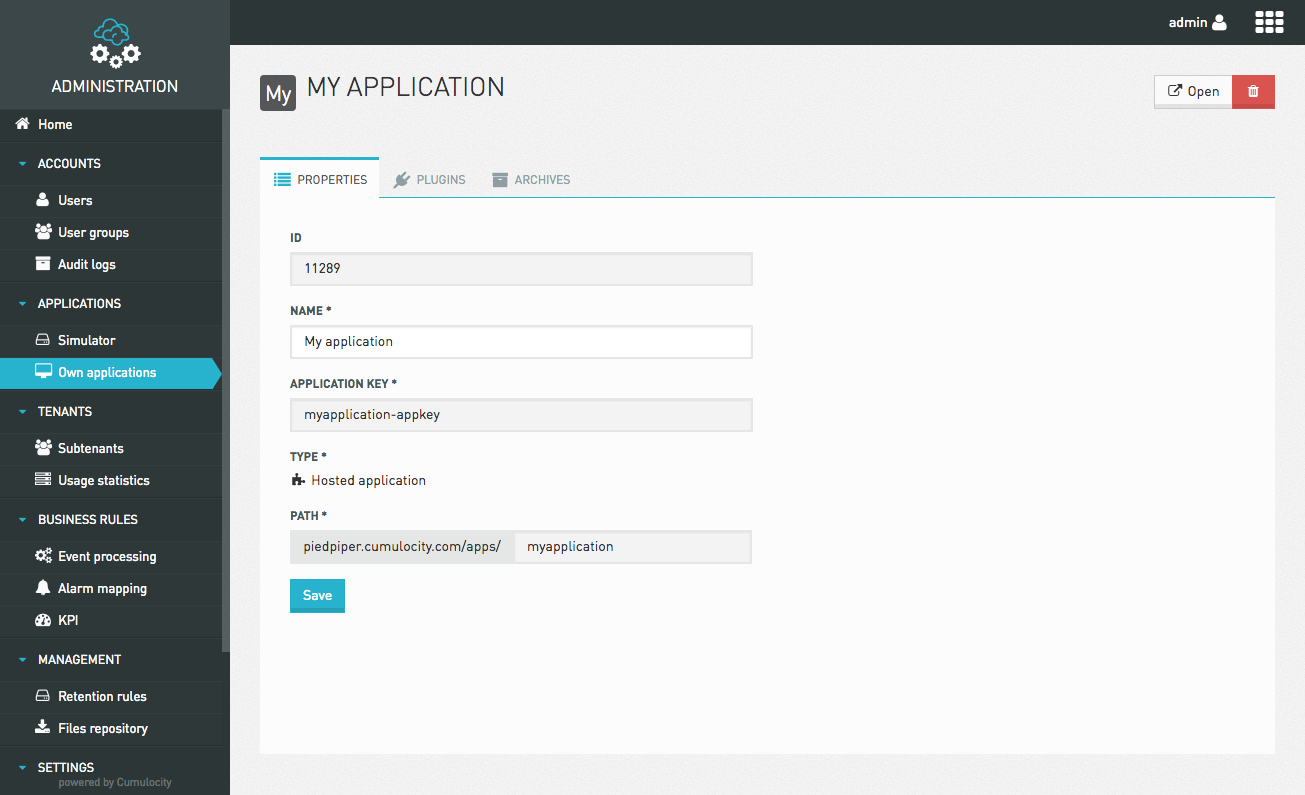
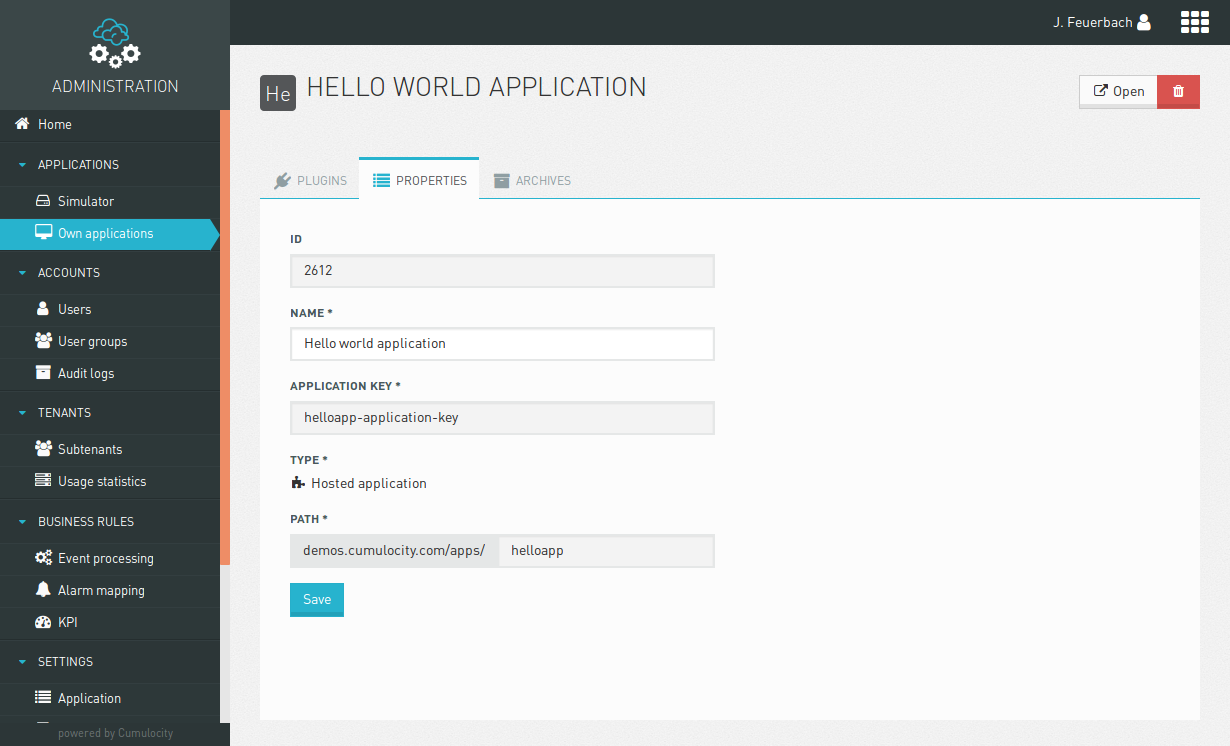
continued working on web sdk doc

diff --git a/src/documents/guides/web/introduction.html.md b/src/documents/guides/web/introduction.html.md
@@ -84,14 +84,14 @@ In case that you only want to create a plugin and add it to an already existing 
 
 The application manifest describes where your application is stored and how it is exposed to Cumulocity. The following properties are available:
 
-* **name**: A descriptive name for the application.
+* **name**: A descriptive name for the application. It will appear in the app switcher menu.
 * **availability**: "PRIVATE", if the application is only available in your tenant, "MARKET", if it is a public application.
 * **contextPath**: The path to be used for hosted applications. The URL of the application will be "&lt;&lt;yourURL&gt;&gt;/apps/&lt;&lt;contextPath&gt;&gt;".
 * **key**: The application key that is used for associating requests of an application with the application and for subscribing to applications.
 * **resourcesUrl**: If the app is serving an upload zip file (is the case for Smartapps) this value will be '/'. If it's a full url all the request will proxied to that address.
 * **type**: *HOSTED*, if the application is hosted through Cumulocity, *EXTERNAL*, if the application is hosted elsewhere.
 * **imports**: A list of plugins used by the application. List of *&lt;&lt;applicationName&gt;&gt;/&lt;&lt;pluginName&gt;&gt;*.
-* **noAppSwitcher**: If set to true, application will not appear in the App Switcher menu. Optional, use, for example, if the application only exposes plugins.
+* **noAppSwitcher**: If set to true, the application will not appear in the App Switcher menu. Optional, use, for example, if the application only exposes plugins.
 * **options**:
 	* **tabsHorizontal**: A boolean, which if set true
 	* **hide_navigator**: A boolean, which if set true collapses the navigator menu on the left by default, optional.
@@ -159,6 +159,7 @@ As already described above, applications are always a collection of plugins. We 
 ```bash
 $ npm init
 ```
+> Note that this command prompts you to enter values for several properties which will be included in the package.json file. The package.json file should include at least a name and version. To skip a property, press enter.
 
 Then proceed to install the Cumulocity UI package containing the set of plugins by typing in the following command:
 
@@ -175,9 +176,7 @@ This command will:
 
 ## Sample plugins
 
-After setting up everything and getting an insight into the folder structure and manifests, you can finally start building your first application and plugin. The following chapter will guide you through the process of building a "Hello World!" style plugin. You can find the "Hello World!" and all other examples described in this section in the repository [https://bitbucket.org/m2m/cumulocity-ui-plugin-examples](https://bitbucket.org/m2m/cumulocity-ui-plugin-examples). However, we recommend to build the "Hello World!" example from scratch to gain a better understanding of how applications and plugins work.
-
-CLONE OR ZIP?
+After setting up everything and getting an insight into the folder structure and manifests, you can finally start building your first application and plugin. The following chapter will guide you through the process of building a "Hello World!" style plugin. You can find the "Hello World!" plugin in the repository [https://github.com/dwiyatci/cumulocity-hello-plugin-modular](https://github.com/dwiyatci/cumulocity-hello-plugin-modular). You are free to download or clone the repository, but we recommend to build the "Hello World!" example from scratch and to use the repository as a reference to gain a better understanding of how applications and plugins work.
 
 ## <a name="hello-world"></a>"Hello world!"
 
@@ -207,45 +206,40 @@ First, we need to create the application project by
 * Running the command "npm init" to create a new package.json file.
 * Running the command "c8y install latest" to get the latest core plugins.
 
+After these steps you should have the following folder structure:
 
-===================================================
-===================================================
-===================================================
-
-### Set up an application project
-
-* [Download](https://bitbucket.org/m2m/cumulocity-ui-plugin/get/tip.zip) the plugin boilerplate from Bitbucket. *(Alternatively, clone the repository if you use Mercurial. As the package.json is already created here, you don't need to npm init)*
-* In a terminal window, go to the project's root folder and install the Cumulocity UI plugins
-
-```bash
-$ c8y install latest
+```console
+<<root folder>>
+├── node_modules
+├── cumulocity.js
+└── package.json
 ```
+
 ### Configure the application manifest
 
-The application manifest contains information about the Cumulocity application that holds your plugins, such as its name, key, URL and dependencies. It needs to be placed in a file named cumulocity.json in the project's root folder. Inspect the "boilerplate" application manifest:
+Second, we have to fill out the application manifest (the cumulocity.json file inside our root folder) with information about our Cumulocity application, such as its name, key, URL and dependencies. For this example, we have to specify the following properties:
 
 ```json
 	{
-		"name": "My application",
-		"availability": "PRIVATE",
-		"contextPath": "myapplication",
-		"key": "myapplication-appkey",
-		"resourcesUrl": "/",
+		"contextPath": "helloapp",
+	  "key": "helloapp-application-key",
+	  "name": "Hello world application",
+	  "availability": "PRIVATE",
+	  "resourcesUrl": "/",
 		"type": "HOSTED",
 		"imports": [
-			"core/c8yBranding",
-			"myapplication/myplugin"
+			"core/c8yBranding"
 		]
 	}
 ```
-You have more detailed information about manifests in the [Plugins Reference](/guides/web/reference)
+
+With the project structure so far, we can already test our application. We already added the "c8yBranding" plugin from the Cumulocity UI package to our imports so that our application is not completely empty when we try to access it. As the name already indicates, it adds the branding of Cumulocity to our application. Before we can test an application locally, we have to create it on our tenant first.
+
+For more details about the other properties of the manifest, revisit "[Manifests](#manifests)".
 
 ### Create the application on your tenant
 
-After a successful login in a Cumulocity UI application the application key is fetched automatically.
-As so, to develop an application we need to make sure that the application is created in our tenant.
-To create the application in our tenant we simply deploy it using using ```c8y deploy:app [appContextPath]```.
-If you omit appContextPath the contextPath will be read from the cumulocity.json at the path where the command was executed.
+After a successful login in a Cumulocity UI application the application key is fetched automatically. As so, to develop an application we need to make sure that the application is created in our tenant. To create the application in our tenant we simply deploy it using using ```c8y deploy:app [appContextPath]```. If you omit appContextPath the contextPath will be read from the cumulocity.json at the path where the command was executed.
 
 ```bash
 $ c8y deploy:app
@@ -258,16 +252,15 @@ POST application/applications/31337/binaries/ 201
 PUT /application/applications/31337 200
 ```
 
-You will be asked for your tenant name, username, password and base url for you tenant. These prompts for data can be preventing by defining the environment variables: ```C8Y_TENANT```, ```C8Y_USER```, ```C8Y_PASS``` and ```C8Y_BASE_URL```;
+You will be asked for your tenant name, username, password and base url for you tenant. To prevent filling out these prompts over and over again, you can define the following environment variables on your computer: ```C8Y_TENANT```, ```C8Y_USER```, ```C8Y_PASS``` and ```C8Y_BASE_URL```.
 
-After deploying your application, it appears in the *"Own applications"* menu of the Cumulocity administration application.
+After deploying your application, it appears in the *"Own applications"* menu of the Cumulocity "Administration" application.
 
 ![My Application](/guides/plugins/applicationeditor.png)
 
 ### Test your application
 
-To run your application locally just run ```c8y server```
-You can pass an options ```-u https://piedpiper.cumulocity.com``` with the instance where you want your api calls to be proxied to.
+To run your application locally, just run ```c8y server```. You can pass an option ```-u https://piedpiper.cumulocity.com``` with the instance as parameter where you want your api calls to be proxied to.
 
 ```console
 $ c8y server
@@ -275,97 +268,149 @@ Cumulocity UI development server running in port 9000.
 Proxying api requests to https://bazinga.staging.c8y.io
 140 modules loaded.
 5 application manifest loaded.
-http://localhost:9000/apps/myapplication/ cumulocity.json
+http://localhost:9000/apps/helloapp/ cumulocity.json
 http://localhost:9000/apps/fieldbus4/  Packaged App
 http://localhost:9000/apps/administration/  Packaged App
 http://localhost:9000/apps/cockpit/  Packaged App
 http://localhost:9000/apps/devicemanagement/  Packaged App
 ```
 
-Now, you can test your application by opening your browser at the URL "http://localhost:9000/apps/myapplication/".
+Now, you can test your application by opening your browser at the URL "http://localhost:9000/apps/helloapp/". If you access your application now, you should be able to see the following:
+
+![My Application](/guides/plugins/emptyapplication.png)
+
+What is missing now is a plugin which adds a menu item to the navigator.
 
 ### Configure the plugin manifest
 
-Each plugin comes in a separate subfolder of the plugins folder of your application. The example contains a subfolder myplugin. Inside myplugin, you will another cumulocity.json file, the plugin manifest. The plugin manifest provides information about a plugin, such as the name, short description, files to be loaded, and angular modules to be added to the main app.
-Inspect myplugins/cumulocity.json manifest:
+Each plugin comes in a separate subfolder inside the plugins folder of your application. So to add a plugin to our application, we have to
+* Create a "plugins" folder in our project
+* Create a folder named "hello" inside the "plugins" folder.
+* Create a cumulocity.json file inside the "hello" folder, representing our application manifest.
+* Create a "views" folder inside the "hello" folder.
+* Create a "hello.html" file inside the "views" folder, representing the view of our plugin.
+
+After these steps you should have the following folder structure:
+
+```console
+<<root folder>>
+├── node_modules
+├── plugins
+|		└── hello
+|				├──views
+|				|	 └── hello.html
+|				└── cumulocity.json
+├── cumulocity.js
+└── package.json
+```
+
+The plugin manifest provides information about our plugin, such as the name, a short description, files to be loaded, and angular modules to be added to the main app. For our example, add the following lines to the cumulocity.json file:
 
 ```json
 {
 	"name": "Hello world plugin testing",
-	"description": "Simple hello world plugin.",
-	"ngModules": [
-		"myapp.helloworld"
-	],
-	"js": [
-		"index.js"
-	]
+	"description": "Simple hello world plugin."
 }
 ```
 
-You have more detailed information about manifests in the [Plugins Reference](/guides/web/reference)
+For more details about the other properties of the manifest, revisit "[Manifests](#manifests)".
 
+Now that we have added a plugin to our application, we also have to add it to the imports of our application manifest. The name of the import consists of two parts seperated by a slash. The first part has to be the context path of the application the plugin is located in and the second part has to be the name of the plugin folder. In our case, our plugin is located in our application with the context path "myapplication" as specified in the application manifest and our plugin folder is named "myplugin" which results in:
+
+```json
+	{
+		...
+		"imports": [
+			"core/c8yBranding",
+			"helloapp/hello"
+		]
+	}
+```
+
+After we added the plugin folder to our application, we can start implementing the functionality.
 
 ### Implement the plugin's initialization function
 
-Previsouly, while defining the plugin manifest, we mentioned that JavaScript code from the file index.js in the plugin folder should be loaded.
-Inspect index.js:
+Even though the scope of this example is very small, we recommend to use a modular approach. For this reason, create a file for the module "hello.module.js", for the config "hello.config.js" and for the controller "hello.controller.js" inside your "hello" folder.
+
+Inside the "hello.module.js" file, we initialize the module for our plugin:
 
 ```js
-//Main module name must be defined in ngModules of the plugin manifest
-//so that they can be loaded at application bootstrap
-angular.module('myapp.helloworld', [])
-	.config(config)
-	.controller('MyMainController', MainController);
+(function () {
+  'use strict';
 
-function config(c8yNavigatorProvider, c8yViewsProvider) {
-	c8yNavigatorProvider.addNavigation({
-		name: 'New plugin',
-		icon: 'cube',
-		priority: 100000,
-		path: 'hello'
-	});
-
-	c8yViewsProvider.when('/hello', {
-		// Please use this string placeholder where you want to refer you plugin path.
-		templateUrl: ':::PLUGIN_PATH:::/index.html',
-		controller: 'MyMainController'
-	});
-
-	c8yViewsProvider.when('/', {
-		redirectTo: '/hello'
-	});
-}
-
-function MainController($scope) {
-	$scope.hello = 'Hello world!';
-}
+  angular.module('helloapp.hello', []);
+}());
 ```
 
-With this code, we contribute a menu item (c8yNavigationProvider) and a view with its controller (c8yViewsProvider) to our application.
+In our "hello.config.js" file, we have to configure our plugin so that it adds a menu item to the navigator and redirects to our view when clicking on this menu item. For that purpose, we can use the services "c8yNavigatorProvider" and "c8yViewsProvider" provided by the [Cumulocity JavaScript API](http://resources.cumulocity.com/documentation/jssdk/latest/). Simply inject the services into your config and call the following functions:
 
-* The menu item has the name *"New plugin"*.
+```js
+(function () {
+  'use strict';
+
+  angular
+    .module('helloapp.hello')
+    .config(configure);
+
+  configure.$inject = [
+    'c8yNavigatorProvider',
+    'c8yViewsProvider'
+  ];
+
+  function configure(
+    c8yNavigatorProvider,
+    c8yViewsProvider
+  ) {
+    c8yNavigatorProvider.addNavigation({
+      name: 'hello',
+      icon: 'cube',
+      priority: 100000,
+      path: 'hello'
+    });
+
+    c8yViewsProvider.when('/hello', {
+      templateUrl: ':::PLUGIN_PATH:::/views/hello.html',
+      controller: 'HelloController',
+      controllerAs: 'vm'
+    });
+  }
+}());
+```
+
+* The menu item has the name *"hello"*.
 * The menu item has a little cube icon. Icons are provided by the great Font Awesome library and you can use any of their [icon names](http://fontawesome.io/icons/) without the *fa-* prefix here.
 * The menu item is sorted into the menu with a priority of 100000, which means that all menu items with a priority lower than 100000 appear before this menu item and all with a priority higher than 100000 appear after this menu item.
 * It points to a URL /hello.
-* When the user opens the URL /hello (resp. clicks on the menu item), the view /views/index.html inside the plugin's folder is displayed. The plugin's folder is represented using the magic string ```:::PLUGIN_PATH:::```, which is replaced by the actual path during the build process.
+* When the user opens the URL /hello (resp. clicks on the menu item), the view /views/hello.html inside the plugin's folder is displayed. The plugin's folder is represented using the magic string ```:::PLUGIN_PATH:::```, which is replaced by the actual path during the build process.
 * Finally we just hook a redirect from the homepage to our /hello view.
 
 ### Implement the controller
 
-index.js contains one more function, a controller *MainController*. This controller defines a variable *hello* to contain the simple static text "Hello world!":
+Second, we have to implement the controller for our view. For this example, the controller just defines variable "text" to contain the simple static text "hello, world":
 
 ```js
-function MainController($scope) {
-	$scope.hello = 'Hello world!';
-}
+(function () {
+  'use strict';
+
+  angular
+    .module('helloapp.hello')
+    .controller('HelloController', HelloController);
+
+  function HelloController() {
+    var vm = this;
+
+    vm.text = 'hello, world';
+  }
+}());
 ```
 
 ### View template
 
-The variable *hello* is used in the view template that renders the user interface of our plugin. Inspect the file views/index.html in the plugin folder:
+After we defined the variable "text", we can access it in our view template. To render the text, add the following to your hello.html file:
 
 ```html
-	<h1>{{hello}}</h1>
+<div>{{vm.text}}</div>
 ```
 
 ### Build and deploy your application and plugins
@@ -414,6 +459,12 @@ The build process for an app includes the following steps:
 3. Generate an index.html
 5. Copy the application manifest
 6. Create a zip file with the above contents
+
+## Other examples
+
+[https://bitbucket.org/m2m/cumulocity-ui-plugin-examples](https://bitbucket.org/m2m/cumulocity-ui-plugin-examples).
+
+* [Download](https://bitbucket.org/m2m/cumulocity-ui-plugin/get/tip.zip) the plugin boilerplate from Bitbucket. *(Alternatively, clone the repository if you use Mercurial. As the package.json is already created here, you don't need to npm init)*
 
 ## Services and extension points
 
